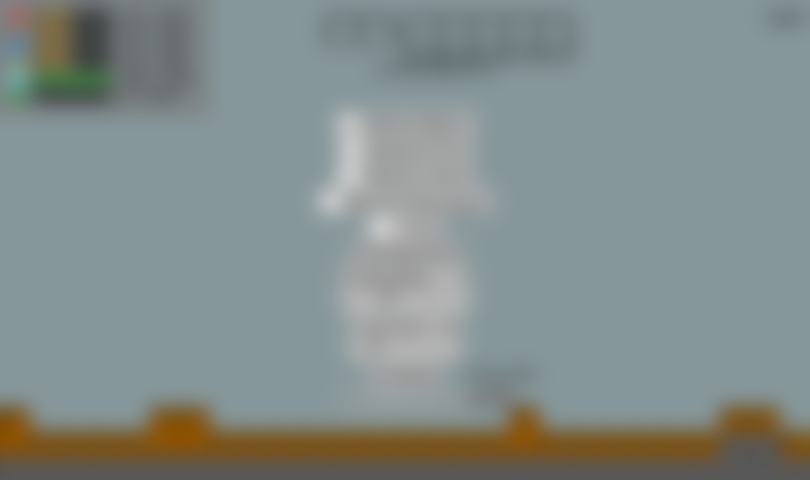
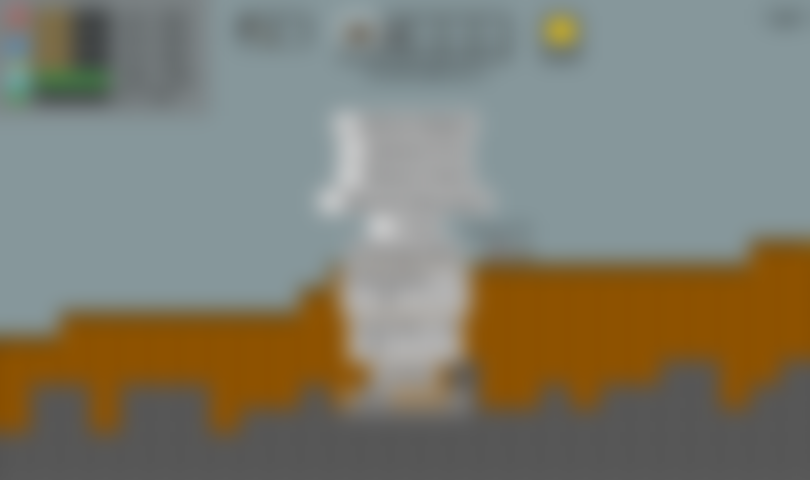
Positioning from tl to center

diff --git a/main.py b/main.py
@@ -193,7 +193,7 @@ def new_world(worldcode=None):
                                 wn = f"New_World_{g.p.new_world_count}"
                                 g.p.new_world_count += 1
                             g.w = World()
-                            generate_world(biome="industry")
+                            generate_world(biome=biome)
                             group(WorldButton({"world": wn, "mode": game_mode, "date": date.today().strftime("%m/%d/%Y")}, g.p.next_worldbutton_pos), all_home_world_world_buttons)
                             g.p.next_worldbutton_pos[1] += g.worldbutton_pos_ydt
                             g.w.mode = game_mode
@@ -2184,11 +2184,11 @@ def main():
             Window.display.cblit(pouch_img, (Window.width / 2 + 20 + 96 + 40, 20), "midtop")
             
             # selected tool name
-            x = 243
-            y = 23
+            x = 258
+            y = 38
             for index, tool in enumerate(g.player.tools):
                 if tool is not None:
-                    Window.display.blit(a.tools[tool], (x, y))
+                    Window.display.cblit(a.tools[tool], (x, y))
                 if tpure(tool) in tinfo:
                     th = g.player.tool_healths[index]
                     if th < 100:
@@ -2198,25 +2198,25 @@ def main():
                 # border if selected
                 if g.player.main == "tool":
                     if index == g.player.tooli:
-                        Window.display.blit(selected_item_img, (x - 3, y - 3))
+                        Window.display.cblit(square_border_img, (x, y))
                 x += 33
                 
             # selected block name
-            x = 344
-            y = 23
+            x = 359
+            y = 38
             for index, block in enumerate(g.player.inventory):
                 if block is not None:
-                    Window.display.blit(a.blocks[block], (x, y))
-                    write(Window.display, "center", inf(g.player.inventory_amounts[index]), orbit_fonts[15], BLACK, x + 15, y + 40)
+                    Window.display.cblit(a.blocks[block], (x, y))
+                    write(Window.display, "center", inf(g.player.inventory_amounts[index]), orbit_fonts[15], BLACK, x, y + 25)
                 # border if selected
                 if g.player.main == "block":
                     if index == g.player.blocki:
-                        Window.display.blit(selected_item_img, (x - 3, y - 3))
+                        Window.display.cblit(square_border_img, (x, y))
                 x += 33
             
             # pouch icon
-            Window.display.blit(pouch_icon, (546, y))
-            write(Window.display, "center", g.player.pouch, orbit_fonts[15], BLACK, 546 + 15, y + 40)
+            Window.display.cblit(pouch_icon, (546 + 15, y))
+            write(Window.display, "center", g.player.pouch, orbit_fonts[15], BLACK, 546 + 15, y + 25)
 
             # P L A Y E R  B A R S ------------------------------------------------------------------------ #
             # applyping regeneration

diff --git a/settings.py b/settings.py
@@ -36,7 +36,7 @@ cimgload = partial(imgload, scale=3)
 # visual things
 inventory_img = cimgload("Bg_Images", "inventory.png")
 tool_holders_img = cimgload("Bg_Images", "tool_holders.png")
-selected_item_img = cimgload("Bg_Images", "selected_item.png")
+square_border_img = cimgload("Bg_Images", "square_border.png")
 pouch_img = cimgload("Bg_Images", "pouch.png")
 pouch_icon = cimgload("Bg_Images", "pouch_icon.png")
 player_hit_chart = cimgload("Bg_Images", "player_hit_chart.png")
